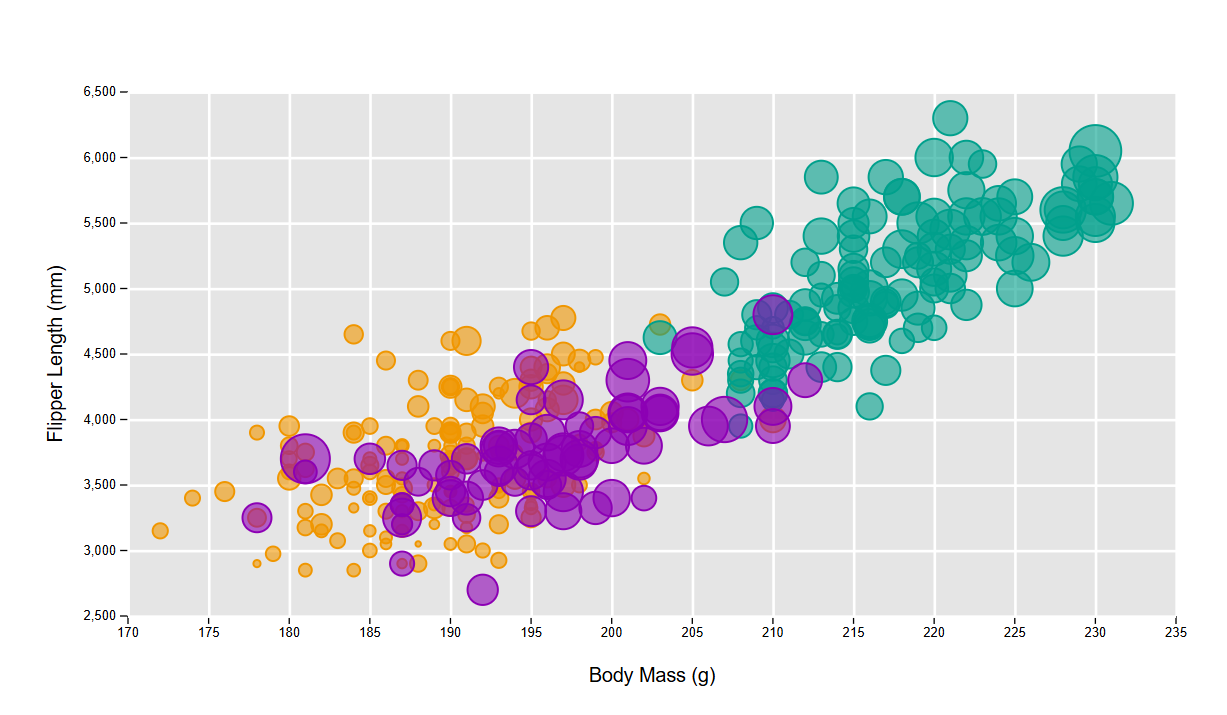
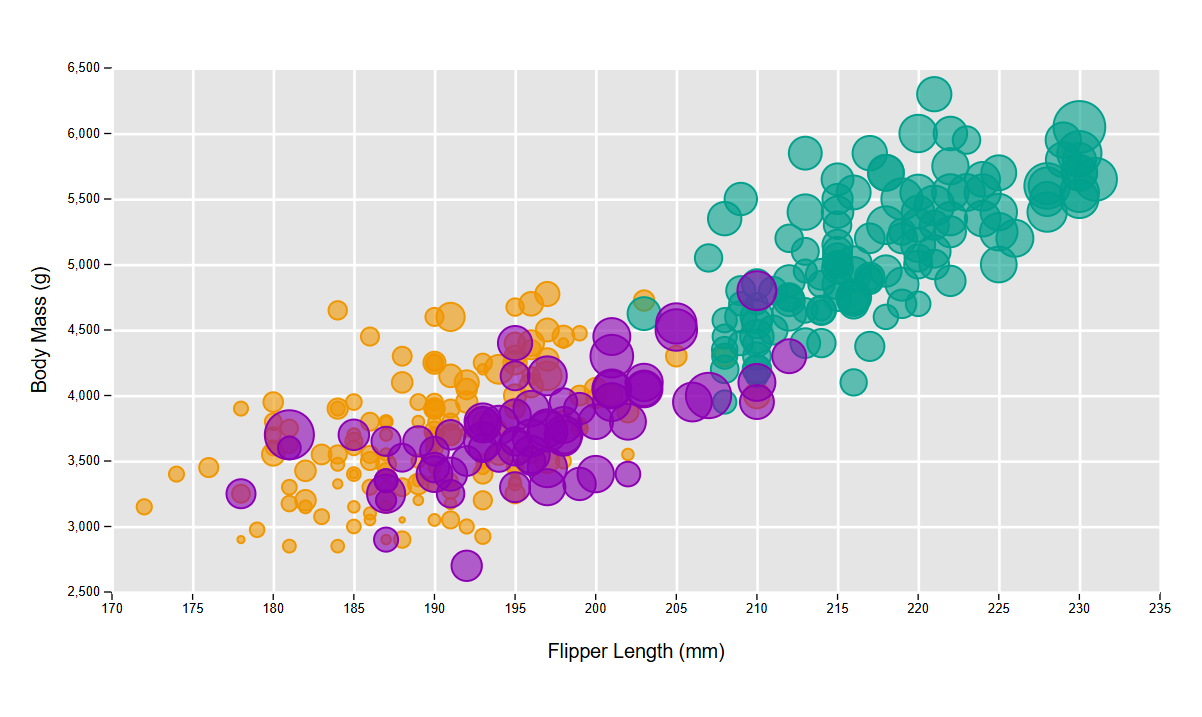
Moved matlab code to correct folder and wrote readme

diff --git a/d3/index.html b/d3/index.html
@@ -43,7 +43,7 @@ import * as d3 from "https://cdn.jsdelivr.net/npm/d3@7/+esm";
         .attr("fill", "currentColor")
         .attr("text-anchor","middle")
         .attr("font-size",15)
-        .text("Body Mass (g)"));
+        .text("Flipper Length (mm)"));
 
   svg.append("g")
     .attr("transform", `translate(${margin},0)`)
@@ -56,7 +56,7 @@ import * as d3 from "https://cdn.jsdelivr.net/npm/d3@7/+esm";
         .attr("fill", "currentColor")
         .attr("text-anchor","middle")
         .attr("font-size",15)
-        .text("Flipper Length (mm)"));
+        .text("Body Mass (g)"));
 
     svg.append("rect")
     .attr("x",margin)

diff --git a/README.md b/README.md
@@ -1,148 +1,57 @@
+# Matlab
 
-![penguins](https://github.com/cs4804-24c/a2-DataVis-5Ways/assets/412089/accc5680-3c77-4d29-9502-d3ff8cd922af)
+Matlab is a language commonly used by engineers to run matrix math, data analysis, and algorithms.
 
-# 02-DataVis-5ways
+To visualize the Penguins dataset, I filtered the dataset into three parts by species and plotted each using the bubbleplot function. I then applied various functions to add colors, opacity, and the legends.
 
-Assignment 2 - Data Visualization, 5 Ways  
-===
+All the code was written by me, taken directly from the matlab documentation, or in the case of the file import, generated by matlab itself.
 
-Now that you have successfully made a "visualization" of shapes and lines using d3, your next assignment is to successfully make a *actual visualization*... 5 times. 
+![matlab](img/matlabplot.png)
 
-The goal of this project is to gain experience with as many data visualization libraries, languages, and tools as possible.
+# d3
 
-I have provided a small dataset about penguins, `penglings.csv`.
-Each row contains a penguin observation and several variables about it, including bill length, flipper length, and more.
+d3 is the main language we are using in this class for data visualization.
 
-Your goal is to use 5 different tools to make the following chart:
+For visualization, I worked from a couple of d3 examples and heavily modified the code to add colors, background, and edit the axes to match the expected graph.
 
-![](img/ggplot2.png)
+https://observablehq.com/@d3/bubble-chart/2
+https://observablehq.com/@d3/scatterplot/2
 
-These features should be preserved as much as possible in your replication:
+![d3](img/d3plot.png)
 
-- Data positioning: it should be a upward-trending scatterplot as shown.  Flipper Length should be on the x-axis and Body Mass on the y-axis.
-- Scales: Note the scales do not start at 0.
-- Axis ticks and labels: both axes are labeled and there are tick marks at a reasonable interval, e.g 10, 20, 30, etc.
-- Color mapping to species.
-- Size mapping to Bill Length.
-- Opacity of circles set to 0.8 or similar for a semi-transparent effect.
+# Altair
 
-Other features are not required. This includes:
+Vega-Altair is a popular python library for data visualization.
 
-- The background grid.
-- The legends.
+I started with the built-in bubble chart example, before modifying all the data streams to pull from the penguins data and adding custom colors and opacities.
 
-Note that some software packages will make it **impossible** to perfectly preserve the above requirements. 
-Be sure to note where these deviate as you reflect on what a tool is good for.
+https://altair-viz.github.io/gallery/bubble_plot.html
 
-Improvements are also welcome as part of Technical and Design achievements.
+![Altair](img/Altairplot.png)
 
-Libraries, Tools, Languages
----
 
-You are required to use 5 different tools or libraries.
-Of the 5 tools, you must use at least 3 libraries (libraries require code of some kind).
-This could be `Python, R, Javascript`, or `Java, Javascript, Matlab` or any other combination.
-Dedicated tools (i.e. Excel) do not count towards the language requirement.
+# Datawrapper
 
-Otherwise, you should seek tools and libraries to fill out your 5.
+Datawrapper is a dedicated visualization tool that uses visual interfaces to create graphs. 
 
-Below are a few ideas. Do not limit yourself to this list!
-There are new tools coming out every year and we may not have an exhaustive list of the latest and greatest.
+I started by importing my data and selecting the rows to visualize, before selecting the bubble chart option and modifying the colors, axis limits, and opacity to match the original graph.
 
-Some may be difficult choices, like Matlab or SPSS, which require large installations, licenses, and occasionally difficult UIs.
+The one difficulty I had was that the bubble sizes were not very controllable. I made them display as wide a range of values as possible, but I was not able to change the maximum and minumum sizes of the bubbles themselves.
 
-I have marked a few that are strongly suggested.
+![Datawrapper](img/datawrapperplot.png)
 
-- R + ggplot2 `<- definitely worth trying`
-- Excel
-- d3 `<- since the rest of the class uses this, we're requiring it`
-- Altair `<- hugely popular python library. highly recommended `
-- three.js `<- well, it's a 3d library. not really recommended, but could be interesting and fun`
-- p5js `<- good for playing around. not really a chart lib`
-- Tableau
-- PowerBI
-- Vega-lite <- `<- very interesting formal visualization model; might be the future of the field`
-- Flourish <- `<- popular in recent years`
-- DataWrapper <- `<- popular in recent years`
-- GNUplot `<- the former CS department head uses this all the time :)`
-- SAS/SPSS/Matlab
+# Excel
 
-You may write everything from scratch, or start with demo programs from books or the web. 
-If you do start with code that you found, please identify the source of the code in your README and, most importantly, make non-trivial changes to the code to make it your own so you really learn what you're doing. 
+Excel is a spreadsheet program usually used for analyzing and visualizing data.
 
-Tips
----
+I started with a standard bubble chart created from the important data in the CSV. I made a separate series in the graph for each species. Then I changed the axes and added custom colors and opacities for each species.
 
-- If you're using d3, key to this assignment is knowing how to load data.
-You will likely use the [`d3.json` or `d3.csv` functions](https://d3js.org/d3-dsv) to load the data you found.
-
-**Beware that these functions are *asynchronous*, meaning it's possible to "build" an empty visualization before the data actually loads. Figuring out how to do this properly can be a major hiccup if you haven't used async functions before. If this means you, start part of this project early so you don't end up in a rush!**
-
-- *For web languages like d3* Don't forget to run a local webserver when you're debugging.
-See my a1 video or online tutorials for how to do this.
-Being able to host a local webserver is an essential web development skill and very common in visualization design as well.
-
-Readme Requirements
----
-
-A good readme with screenshots and structured documentation is required for this project. 
-It should be possible to scroll through your readme to get an overview of all the tools and visualizations you produced.
-
-- Each visualization should start with a top-level heading (e.g. `# d3`)
-- Each visualization should include a screenshot. Put these in an `img` folder and link through the readme (markdown command: `![caption](img/<imgname>)`.
-- Write a paragraph for each visualization tool you use. What was easy? Difficult? Where could you see the tool being useful in the future? Did you have to use any hacks or data manipulation to get the right chart?
-
-Other Requirements
----
-
-0. Your code should be forked from the GitHub repo.
-1. Place all code, Excel sheets, etcetera in a named folder. For example, `r-ggplot, matlab, mathematica, excel` and so on.
-2. Your writeup (readme.md in the repo) should also contain the following:
-
-- Description of the Technical achievements you attempted with this visualization.
-  - Some ideas include interaction, such as mousing over to see more detail about the point selected.
-- Description of the Design achievements you attempted with this visualization.
-  - Some ideas include consistent color choice, font choice, element size (e.g. the size of the circles).
-
-GitHub Details
----
-
-- Fork the GitHub Repository. You now have a copy associated with your username.
-- Make changes to fulfill the project requirements. 
-- To submit, make a [Pull Request](https://help.github.com/articles/using-pull-requests/) on the original repository.
-
-Grading
----
-
-Grades on a 120 point scale. 
-24 points will be based on your Technical and Design achievements, as explained in your readme. 
-
-Make sure you include the files necessary to reproduce your plots.
-You should structure these in folders if helpful.
-We will choose some at random to run and test.
-
-**NOTE: THE BELOW IS A SAMPLE ENTRY TO GET YOU STARTED ON YOUR README. YOU MAY DELETE THE ABOVE.**
-
-# R + ggplot2 + R Markdown
-
-R is a language primarily focused on statistical computing.
-ggplot2 is a popular library for charting in R.
-R Markdown is a document format that compiles to HTML or PDF and allows you to include the output of R code directly in the document.
-
-To visualized the cars dataset, I made use of ggplot2's `geom_point()` layer, with aesthetics functions for the color and size.
-
-While it takes time to find the correct documentation, these functions made the effort creating this chart minimal.
-
-![ggplot2](img/ggplot2.png)
-
-# d3...
-
-(And so on...)
-
+![Excel](img/excelplot.png)
 
 ## Technical Achievements
-- **Proved P=NP**: Using a combination of...
-- **Solved AI Forever**: ...
+- **Added the legends in most of the visualizations**: I could not figure out how to make d3 or excel generate the legends in the way I wanted, but managed to make my matlab code implement it, which it doesn't normally generate.
 
 ### Design Achievements
-- **Re-vamped Apple's Design Philosophy**: As demonstrated in my colorscheme...
+- **Consistent Colors**: I used consistent colors throughout my graphs, in everything except excel, which was using its own colors.
+
+- **Point Strokes**: I used full opacity strokes on all the graphs to help viewers identify individual points within the graphs.
